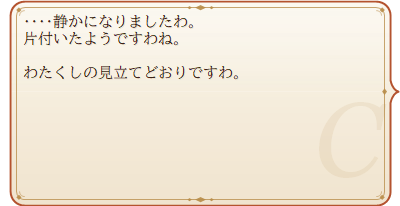
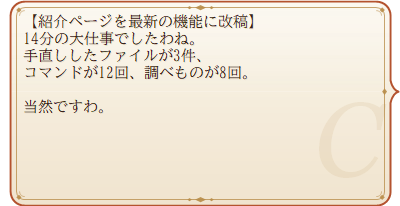
紹介ページを最新の機能と表情に合わせて改稿する
- 登場人物に冷笑・照れ怒り・考え中・困り顔・お辞儀の表情を加える
- 完了報告に題名と働きぶりが添わることを書き、吹き出しを撮り直す
- 功績録の欄を「功績録と業務報告」にし、業務報告と称号の頁を撮り直す
- 「お茶とタイマー」の欄を加える
- メニューを今の項目で撮り直し、記念日、スリープからの復帰とロック解除を書き足す
- 吹き出しは開発キットのマーカーなしの撮影（--hide）で撮る

🌹 Polished by Claudia

Changed region(s): [[0.06, 0.0583, 0.66, 0.4078], [0.06, 0.466, 0.27, 0.5534]]

diff --git a/site/index.html b/site/index.html
@@ -148,6 +148,7 @@ section { padding: 64px 0 16px; }
 .faces img { width: 100%; border-radius: var(--radius-part); background: var(--paper-deep); }
 .card.butler .faces img { background: var(--butler-paper); border: 1px solid var(--butler-line); }
 .card.butler .faces figure { color: inherit; }
+.faces + .note { margin: 12px 0 0; }
 
 /* ---- features: real balloons captured in SSP ---- */
 .feature { display: grid; grid-template-columns: 1fr 1.2fr; gap: 32px; align-items: center; margin-top: 48px; }
@@ -273,13 +274,19 @@ footer { text-align: center; padding: 48px 16px 64px; font-size: 13px; color: va
           <figure><img src="img/f0.png" width="140" height="140" alt="微笑"><figcaption>微笑</figcaption></figure>
           <figure><img src="img/f25.png" width="140" height="140" alt="にっこり"><figcaption>にっこり</figcaption></figure>
           <figure><img src="img/f26.png" width="140" height="140" alt="したり顔"><figcaption>したり顔</figcaption></figure>
+          <figure><img src="img/f8.png" width="140" height="140" alt="扇で口元を隠した冷笑"><figcaption>冷笑</figcaption></figure>
           <figure><img src="img/f5.png" width="140" height="140" alt="高笑い"><figcaption>高笑い</figcaption></figure>
           <figure><img src="img/f1.png" width="140" height="140" alt="照れ"><figcaption>照れ</figcaption></figure>
+          <figure><img src="img/f9.png" width="140" height="140" alt="頬を染めて眉を寄せた照れ怒り"><figcaption>照れ怒り</figcaption></figure>
           <figure><img src="img/f2.png" width="140" height="140" alt="驚き"><figcaption>驚き</figcaption></figure>
+          <figure><img src="img/f27.png" width="140" height="140" alt="閉じた扇を口元に当てて考え中"><figcaption>考え中</figcaption></figure>
+          <figure><img src="img/f3.png" width="140" height="140" alt="困り顔"><figcaption>困り顔</figcaption></figure>
           <figure><img src="img/f7.png" width="140" height="140" alt="不機嫌"><figcaption>不機嫌</figcaption></figure>
           <figure><img src="img/f4.png" width="140" height="140" alt="落胆"><figcaption>落胆</figcaption></figure>
           <figure><img src="img/f6.png" width="140" height="140" alt="目閉じ"><figcaption>目閉じ</figcaption></figure>
+          <figure><img src="img/f28.png" width="140" height="140" alt="スカートの裾をつまんでお辞儀するクローディア"><figcaption>お辞儀</figcaption></figure>
         </div>
+        <p class="note">お辞儀は、裾をつまんで膝を折るカーテシーの動きつき。ご挨拶とお見送りのときにお見せしますわ。</p>
       </article>
       <article class="card butler">
         <i class="brooch"></i>
@@ -320,12 +327,13 @@ footer { text-align: center; padding: 48px 16px 64px; font-size: 13px; color: va
     <div class="feature wide">
       <div class="text">
         <h3>長いお仕事の完了と、休憩のすすめ</h3>
-        <p>時間のかかった作業が片付けば、ひとことお声がけしますわ。続けて 2 時間も働きづめなら、お茶を淹れさせますの。根を詰めても、良い設計は浮かびませんわよ。</p>
+        <p>時間のかかった作業が片付けば、ひとことお声がけしますわ。どの作業の話か分かるよう、Claude Code が付けたセッションの題名で呼び、ファイルの手直しやコマンドの数、つまずいた回数まで添えて報告しますの。</p>
+        <p>続けて 2 時間も働きづめなら、お茶を淹れさせますわ。根を詰めても、良い設計は浮かびませんわよ。</p>
       </div>
       <div class="stage cols">
         <div class="pair">
-          <div class="talk"><img class="b" src="img/cc-done-0.png" width="400" height="206" alt="クローディア「……静かになりましたわ。片付いたようですわね。わたくしの見立てどおりですわ。」"><img class="f" src="img/f26.png" width="140" height="140" alt=""></div>
-          <div class="talk anthony"><img class="b" src="img/cc-done-1.png" width="400" height="121" alt="アンソニー「お見事でございます。」"><img class="f" src="img/f10.png" width="120" height="120" alt=""></div>
+          <div class="talk"><img class="b" src="img/cc-done-0.png" width="400" height="206" alt="クローディア「【紹介ページを最新の機能に改稿】14分の大仕事でしたわね。手直ししたファイルが3件、コマンドが12回、調べものが8回。」「当然ですわ。」"><img class="f" src="img/f26.png" width="140" height="140" alt=""></div>
+          <div class="talk anthony"><img class="b" src="img/cc-done-1.png" width="400" height="121" alt="アンソニー「一度もつまずかずに、でございます。」"><img class="f" src="img/f10.png" width="120" height="120" alt=""></div>
           <div class="caption">長考が片付いたとき</div>
         </div>
         <div class="pair">
@@ -338,20 +346,41 @@ footer { text-align: center; padding: 48px 16px 64px; font-size: 13px; color: va
 
     <div class="feature">
       <div class="text">
-        <h3>功績録と称号</h3>
+        <h3>功績録と業務報告</h3>
         <p>あなたが Claude Code に下した依頼の数、登城した日数、夜更かしの回数まで、わたくしが帳簿につけておきますわ。節目には称号を授けて差し上げますの。</p>
+        <p>業務報告では、依頼の数、よく働く時刻、治めた領地、Claude が働いた時間を、本日・昨日・今週・先週・今月・先月・今年から選んでまとめますわ。日付を入れて、好きな期間を指定することもできましてよ。</p>
         <p class="note">依頼の履歴から読むのは時刻と作業フォルダだけ。依頼の本文は読みませんわ。</p>
       </div>
       <div class="stage cols">
-        <div><img src="img/stats-0.png" width="400" height="461" alt="功績録の頁。記録の始まり、登城した日、依頼の件数、一日の最多などが並ぶ"></div>
+        <div><img src="img/report-0.png" width="400" height="461" alt="業務報告の頁。本日・昨日・今週などの期間の切り替えと、依頼の件数、よく働く時刻、治めた領地、Claude が働いた時間などが並ぶ"></div>
         <div><img src="img/titles-0.png" width="400" height="461" alt="称号の頁。『五千の依頼を下せし者』『夜更かしの騎士』『暁の働き者』などの称号と、高笑い"></div>
+      </div>
+    </div>
+
+    <div class="feature wide">
+      <div class="text">
+        <h3>お茶とタイマー</h3>
+        <p>メニューの「お茶とタイマー」から、アンソニーに紅茶を頼めば、茶葉ごとの蒸らし時間で砂時計を返しますわ。時間を指定した砂時計も、6 本まで同時に立てられますの。</p>
+        <p>執務（ポモドーロ）を始めれば、集中と休憩の区切りをお知らせしますわ。集中している間は、わたくしもおしゃべりを控えて差し上げます。分数と本数は「執務の時間割」で変えられましてよ。</p>
+      </div>
+      <div class="stage cols">
+        <div class="pair">
+          <div class="talk"><img class="b" src="img/timer-menu-0.png" width="400" height="206" alt="お茶とタイマーのメニュー。ダージリン 3分、アッサム 4分、アールグレイ 3分、カモミール 5分、時間を指定、砂時計を止める、執務を始める、執務の時間割。最下段に砂時計の残り時間"><img class="f" src="img/f26.png" width="140" height="140" alt=""></div>
+          <div class="talk anthony"><img class="b" src="img/tea-start-1.png" width="400" height="121" alt="アンソニー「かしこまりました。ダージリンを3分、蒸らします。」"><img class="f" src="img/f10.png" width="120" height="120" alt=""></div>
+          <div class="caption">紅茶の砂時計</div>
+        </div>
+        <div class="pair">
+          <div class="talk"><img class="b" src="img/pomo-0.png" width="400" height="206" alt="クローディア「おーっほっほっほ！4本、見事に片付きましたわね！」「よく頑張りましたわ。ゆっくりお茶になさい。」"><img class="f" src="img/f5.png" width="140" height="140" alt=""></div>
+          <div class="talk anthony"><img class="b" src="img/pomo-1.png" width="400" height="121" alt="アンソニー「長めのご休憩を15分、でございます。」"><img class="f" src="img/f10.png" width="120" height="120" alt=""></div>
+          <div class="caption">執務がひと組片付くと</div>
+        </div>
       </div>
     </div>
 
     <div class="feature flip">
       <div class="text">
         <h3>お嬢様と執事の掛け合い</h3>
-        <p>ふだんは、わたくしとアンソニーのたわいもない会話。紅茶の品評のような続きものもありますわ。季節や記念日には、それにちなんだお話も。</p>
+        <p>ふだんは、わたくしとアンソニーのたわいもない会話。紅茶の品評のような続きものもありますわ。季節の折々や、Claude の誕生日のような記念日には、それにちなんだお話も。</p>
       </div>
       <div class="stage">
         <div class="talk"><img class="b" src="img/talk-tea-0.png" width="400" height="206" alt="クローディア「アンソニー、あなたにも好きな紅茶はありますの？」「あら、どの茶葉かしら。」「……あ、あれは茶葉を入れすぎただけですわ！」"><img class="f" src="img/f1.png" width="140" height="140" alt=""></div>
@@ -392,17 +421,17 @@ footer { text-align: center; padding: 48px 16px 64px; font-size: 13px; color: va
     <div class="feature">
       <div class="text">
         <h3>メニュー</h3>
-        <p>わたくしをダブルクリックすればメニューですわ。話しかける、功績録を見る、Claude Code の様子を確かめる、設定を変える。最後の行には、今日の依頼の数と待ちの数が出ますの。</p>
+        <p>わたくしをダブルクリックすればメニューですわ。話しかける、功績録と業務報告を見る、お茶を頼む、Claude Code の様子を確かめる、設定を変える。最後の行には、今日の依頼の数と待ちの数が出ますの。</p>
       </div>
       <div class="stage">
-        <div class="talk"><img class="b" src="img/menu-0.png" width="400" height="206" alt="メニュー。何か話して、さっきの話は？、話しかける、ゴーストと話す、これまでの功績、Claude Code は？、設定、なんでもない。最下段に今日の依頼の数"><img class="f" src="img/f26.png" width="140" height="140" alt=""></div>
+        <div class="talk"><img class="b" src="img/menu-0.png" width="400" height="206" alt="クローディア「また呼びましたの？今度は何ですの。」メニュー。何か話して、話しかける、ゴーストと話す、功績録と業務報告、お茶とタイマー、Claude Code は？、設定、なんでもない。最下段に今日の依頼の数"><img class="f" src="img/f7.png" width="140" height="140" alt=""></div>
       </div>
     </div>
 
     <div class="others">
       <div class="card"><h4>話しかけ</h4><p>「名前を覚えて」と話しかければ、呼び方を変えて差し上げますわ。</p></div>
       <div class="card"><h4>PC の様子</h4><p>充電の抜き差し、電池の残り、USB 機器、壁紙の変更、音楽の再生にも気づきますの。</p></div>
-      <div class="card"><h4>デスクトップの出来事</h4><p>最小化と復帰、全画面のアプリ。邪魔をしないよう、心得ておりますわ。</p></div>
+      <div class="card"><h4>デスクトップの出来事</h4><p>最小化と復帰、全画面のアプリ、スリープからのお目覚めと画面ロックの解除。邪魔をしないよう、心得ておりますわ。</p></div>
       <div class="card"><h4>専用のバルーン</h4><p>招待状を模した横長・縦長の吹き出しを同梱。ネットワーク更新にも対応していますわ。</p></div>
     </div>
   </section>
